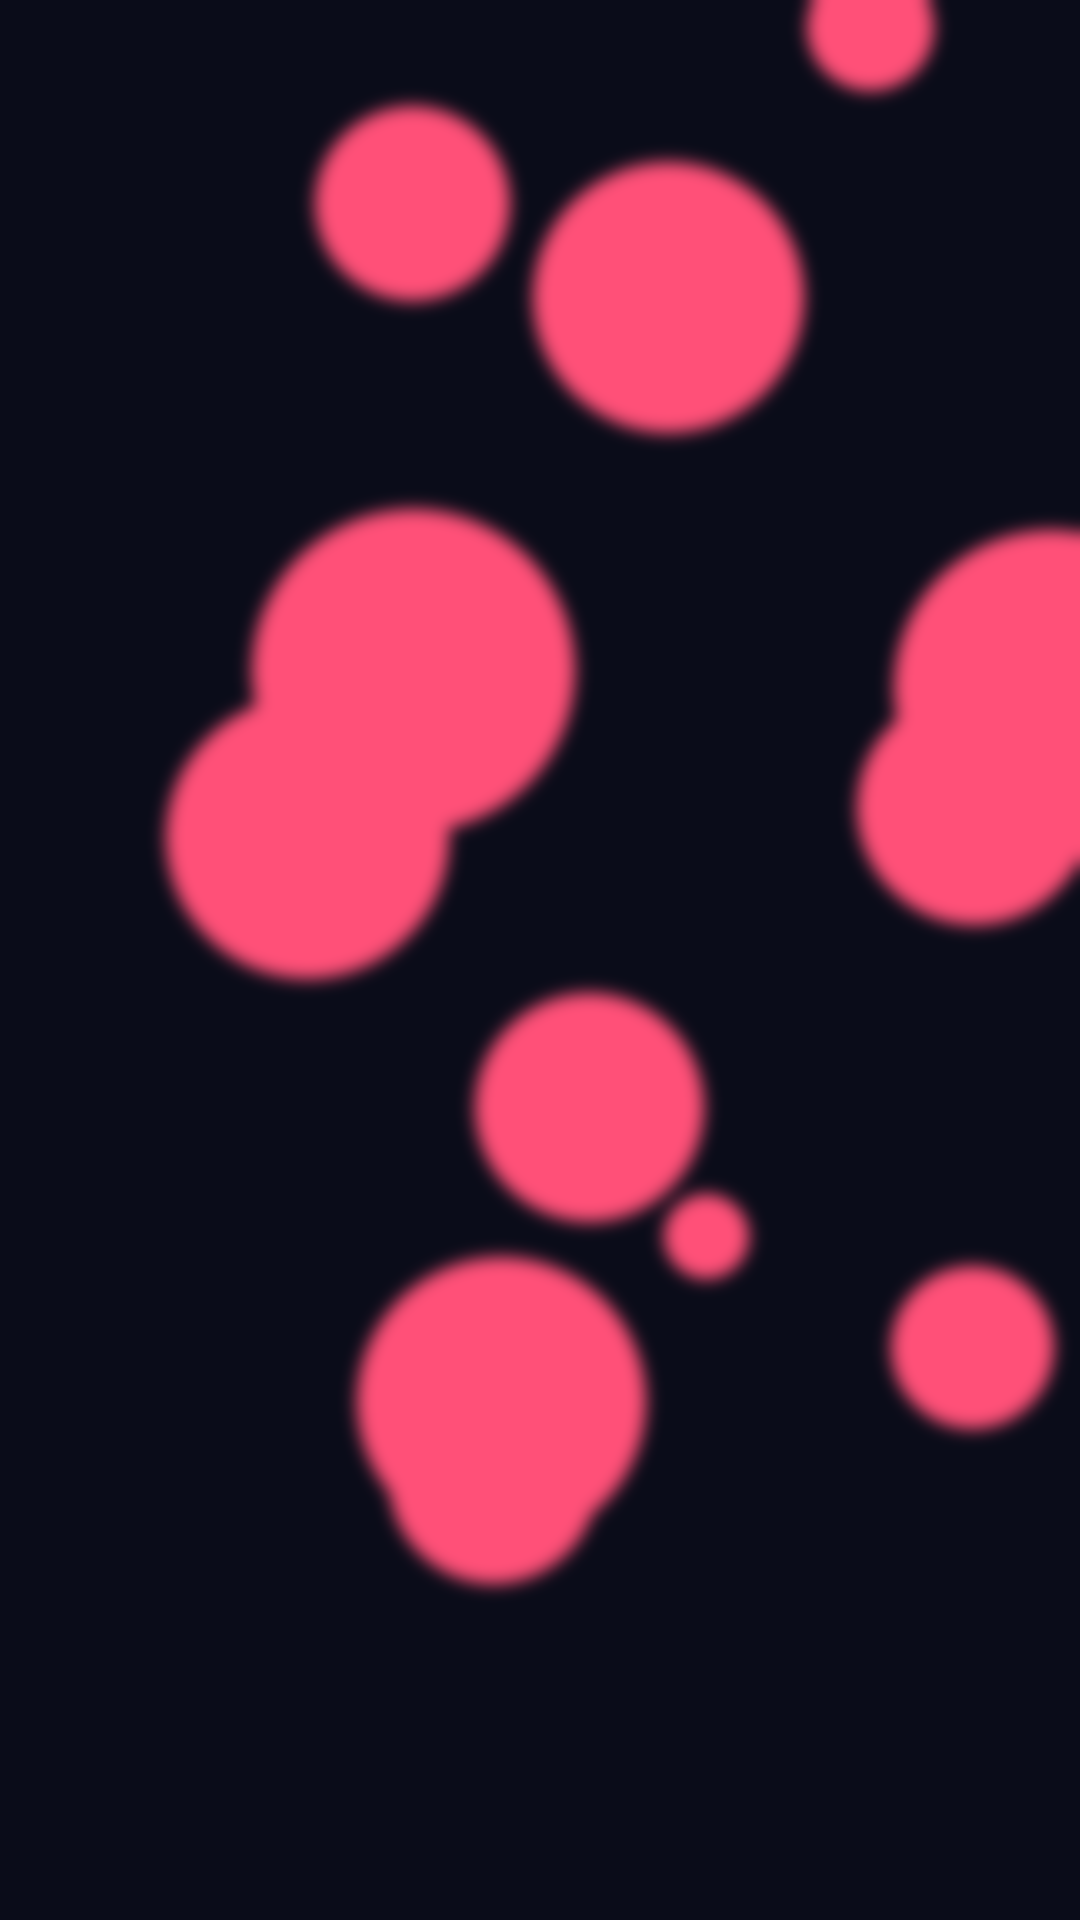
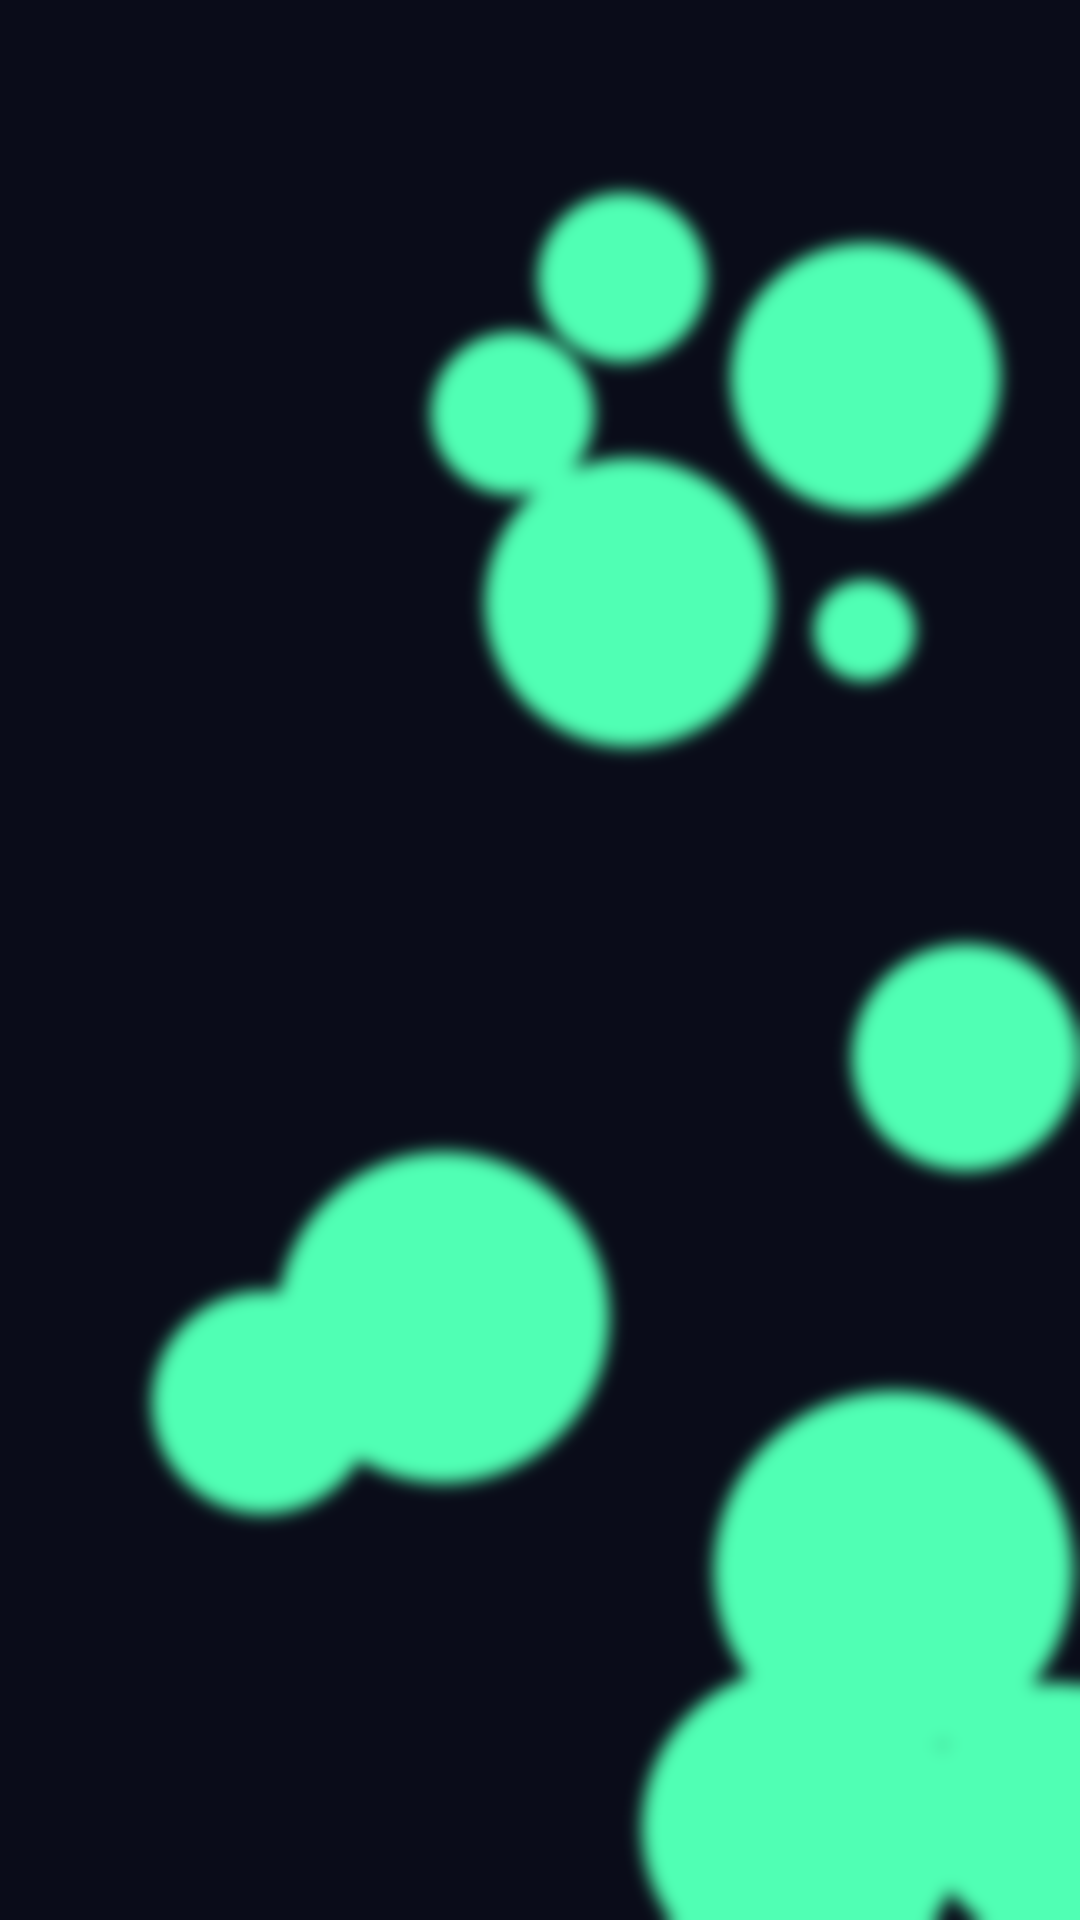
Speed up render: concurrency=4, GPU flags, cap video to 60s
- Remotion: --concurrency=4 --gl=angle-egl, removed hardcoded port
- Scriptwriter: 80-120 words, 25-40s, max 3 beats (was 150-250 words)
- build_video.py: stream remotion output instead of capturing

diff --git a/agents/scriptwriter/scriptwriter.py b/agents/scriptwriter/scriptwriter.py
@@ -140,16 +140,18 @@ Write a script with exactly these parts:
 3. CTA (1 sentence): Subscribe/follow call-to-action. Max 15 words.
 
 CRITICAL RULES:
-- Total script word count: 150-250 words
+- Total script word count: 80-120 words
 - Use US English, no markdown, no special characters
 - Do NOT hallucinate stats. Only use claims from the research above.
 - The body beats will be rendered as separate visual scenes
+- Keep total video under 60 seconds: 3-4 seconds hook, 20-30 seconds body, 5 seconds CTA
+- Max 3 visual beats in the body
 
 Return a JSON object with:
 - hook: string (opening line)
 - body: string (full body text, beats separated by " | " delimiter)
 - cta: string (closing call-to-action)
-- estimated_duration: number (total seconds, 30-45)
+- estimated_duration: number (total seconds, 25-40)
 - format: string (e.g. "stat-heavy explainer", "mechanism-diagram explainer", "news brief")
 - claims_used: array of strings (which claims from research are used)
 - claims_not_used: array of strings (which claims were excluded)

diff --git a/producer/build_video.py b/producer/build_video.py
@@ -305,7 +305,8 @@ async def build_video(script_path: str, output_path: str | None = None) -> None:
         "src/index.ts",
         "ContentVideo",
         output,
-        "--port", "3123",
+        "--concurrency=4",
+        "--gl=angle-egl",
     ]
     if Path(chromium_path).exists():
         remotion_cmd.extend(["--browser-executable", chromium_path])
@@ -313,11 +314,9 @@ async def build_video(script_path: str, output_path: str | None = None) -> None:
     result = subprocess.run(
         remotion_cmd,
         cwd=str(PRODUCER_DIR),
-        capture_output=True, text=True,
     )
 
     if result.returncode != 0:
-        print(f"  Remotion stderr:\n{result.stderr[-2000:]}", file=sys.stderr)
         raise RuntimeError(f"Remotion render failed with code {result.returncode}")
 
     print(f"\nDone! Video rendered to: {output}")
